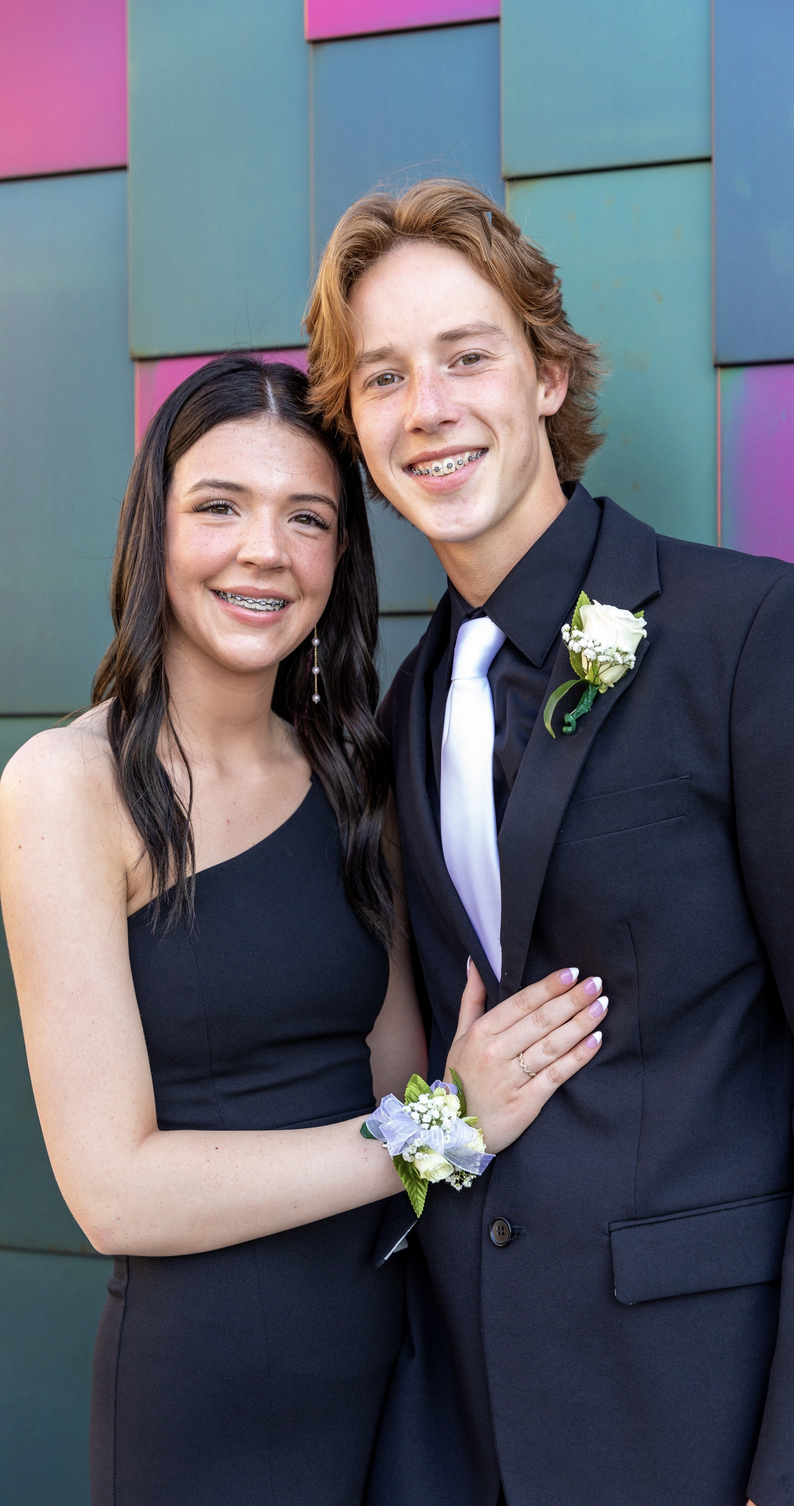
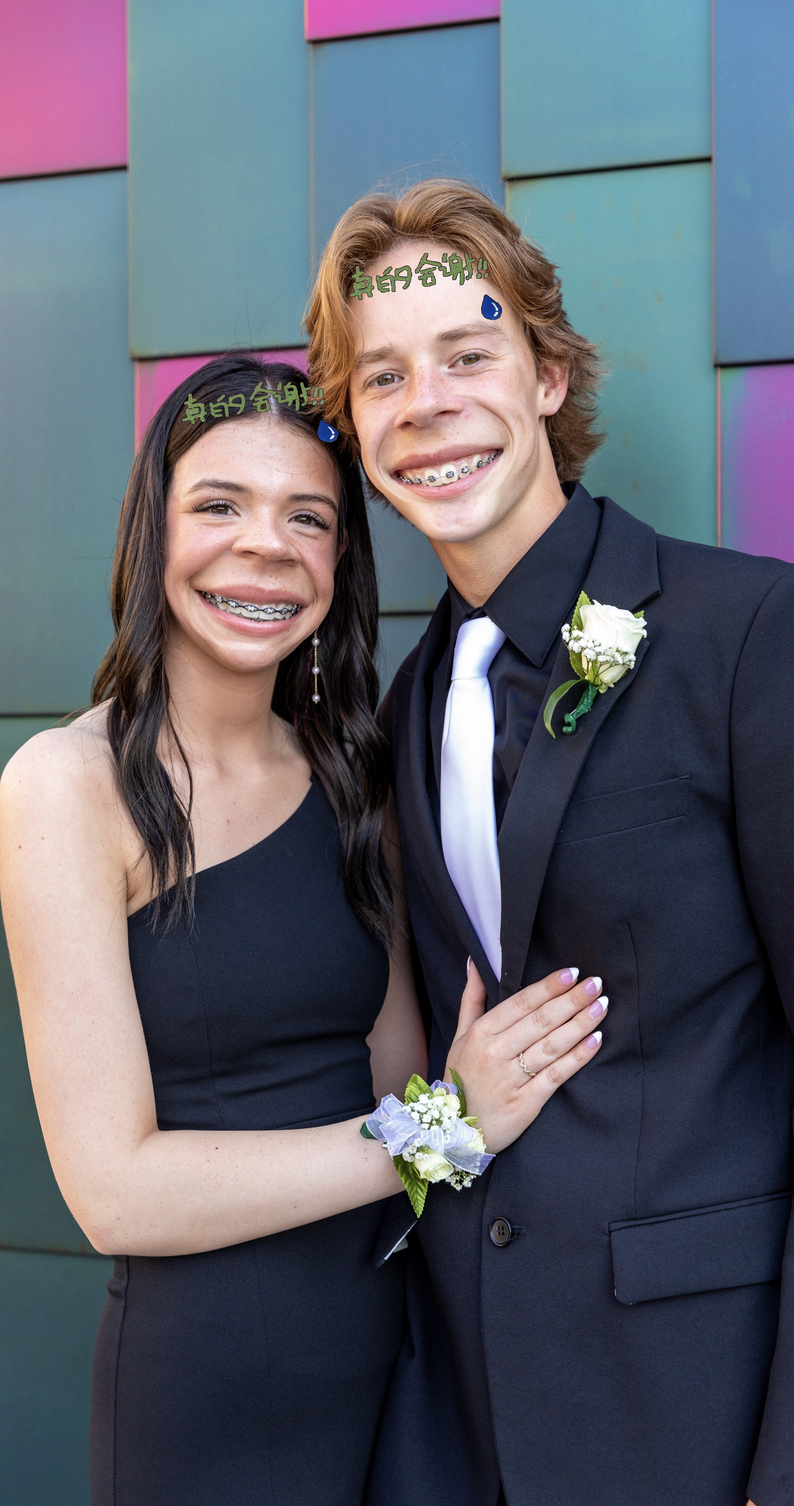
change3 frown sin x**2

diff --git a/1.py b/1.py
@@ -182,9 +182,9 @@ def overlay_image(background, overlay, x, y):
     """
     # 获取前景图像的尺寸
     h, w = overlay.shape[:2]
-    na = [[255,255,255],
-          [255,255,255],
-          [255,255,255]]
+    na = [[0,0,0],
+          [0,0,0],
+          [0,0,0]]
     for i in range(h):
         for j in range(w):
             if np.sum(np.square(overlay[i][j]-na))>1000:
@@ -220,7 +220,7 @@ def change2(img_path,faces):
         lefts.append([(zx1,zy1),(a,b)])
     result = apply_lens_effect(img, ellipses)
     background = result
-    overlay = cv2.imread('zdhx.jpg')
+    overlay = cv2.imread('zdhx2.jpg')
     for i in range(len(lefts)):
         x,y=lefts[i][0]
         a,b=lefts[i][1]
@@ -228,8 +228,38 @@ def change2(img_path,faces):
         background=overlay_image(background,overlay,x,y)
     return result
 
-
-def smooth_bend_transform(image, regions):
+def frown_effect(img, brow_center, width, height, strength):
+    """
+    :param img: 输入图像
+    :param brow_center: 眉毛中心点坐标 (x,y)
+    :param width: 作用区域宽度
+    :param height: 作用区域高度
+    :param strength: 下压强度系数
+    """
+    rows, cols = img.shape[:2]
+    c1,c2=brow_center[0]-width//2,brow_center[0]+width//2
+    c3,c4=brow_center[1]-height//2,brow_center[1]+height//2
+    output = np.zeros_like(img)
+    
+    for i in range(c1,c2):
+        for j in range(c3,c4):
+            # 计算相对于眉毛中心的局部坐标
+            dx = (j - brow_center[0]) / (width/2)
+            dy = (i - brow_center[1]) / (height/2)
+            
+            if abs(dx) <= 1 and abs(dy) <= 1:
+                # 抛物线位移函数：中心下压，边缘上抬
+                delta_y = strength *10* (1 - dx**2) 
+                new_i = int(i + delta_y)
+                new_j = j
+                
+                # 边界处理
+                if 0 <= new_i < rows and 0 <= new_j < cols:
+                    output[i,j] = img[new_i, new_j]
+            else:
+                output[j,i] = img[i,j]
+    return output
+def smooth_bend_transform(img, regions):
     """
     对图像的多个长方形区域进行平滑倾斜弯曲变换
     :param image: 输入图像
@@ -242,51 +272,39 @@ def smooth_bend_transform(image, regions):
         - phase_step: 正弦函数的步长
     :return: 变换后的图像
     """
-    import numpy as np
 
-    def smooth_edge_mask(sh, decay_radius=50):
-    # 生成边缘衰减掩模（0~1）
-        mask = np.ones((height, width))
-        for i in range(0, sh[0][1]-sh[0][0]):
-            for j in range(0, sh[1][1]-sh[1][0]):
-                # 计算到边界的距离
-                d_left = j
-                d_right = width - j
-                d_top = i
-                d_bottom = height - i
-                d_min = min(d_left, d_right, d_top, d_bottom)
-                # 高斯衰减：边缘decay_radius像素内逐渐衰减到0
-                mask[i,j] = np.exp(-(max(0, decay_radius - d_min)**2) / (2*(decay_radius/3)**2))
-        return mask
-
-    result = image
-    height, width = image.shape[:2]
+    result = img.copy()
+    height, width = img.shape[:2]
 
     # 遍历每个长方形区域
     for region in regions:
+        print(region)
         x_start, x_end = region["x_start"], region["x_end"]
         y_start, y_end = region["y_start"], region["y_end"]
         amplitude = region["amplitude"]
         frequency = region["frequency"]
         phase_start = region["phase_start"]
         phase_step = region["phase_step"]
-        mask=smooth_edge_mask([(x_start, x_end),(y_start, y_end)], decay_radius=50)
         # 遍历长方形区域
-        for y in range(y_start, y_end):
-            for x in range(x_start, x_end):
-                # 计算正弦函数的相位
-                phase = phase_start + (x - x_start) * phase_step
-                
-                # 修改扭曲函数，加入衰减
-                offset = amplitude * np.sin(frequency * y + phase) #mask[y-y_start, x-x_start]
-                # 计算新坐标
-                y_new = y + offset
-                if (y_new < y_start ):
-                    y_new=y_start
-                elif (y_new > y_end):
-                    y_new=y_end
-                value= linear_interpolation(image, x, y_new)
-                result[y, x] = value
+        brow_center = (int((x_start + x_end) / 2), int((y_start + y_end) / 2))  
+        strength = amplitude 
+        for j in range(x_start, x_end):
+            phase= phase_start + (j - x_start) * phase_step
+            for i in range(y_start, y_end):
+                # 计算相对于眉毛中心的局部坐标
+                dx= (j - brow_center[0]) / (x_end - x_start)*2
+                dy= (i - brow_center[1]) / (y_end - y_start)*2
+                delta_y = 1.0*strength * (np.sin(phase)+1) * (1 - dx**2)*(1 - dy**2)
+                if (dy>0):
+                    delta_y*=2
+                new_i = .0
+                new_i = i + delta_y
+                new_i = max(y_start, min(new_i, y_end))  # 限制在范围内
+                new_j = j  # 限制在范围内
+                value = linear_interpolation(img, j, new_i)
+                #if np.sum(np.square(img[i][j]-img[new_i]))>1000
+                result[i,j] = value
+                    
 
     return result
 def change3(img_path,faces):
@@ -302,29 +320,27 @@ def change3(img_path,faces):
         x1=s[t1][0];y1=s[t1][1]
         x2=s[t2][0];y2=s[t2][1]
         bend1 = {
-        "y_start": y1-abs(x1-x2)//2, "y_end": y2+abs(x1-x2)//2,  # 水平范围
+        "y_start": y1-abs(x1-x2), "y_end": y2+abs(x1-x2)//8,  # 水平范围
         "x_start": x1, "x_end": x2,  # 垂直范围
-        "amplitude": 10,              # 弯曲幅度
+        "amplitude": abs(x1-x2)//2,              # 弯曲幅度
         "frequency": 1,               # 弯曲频率
-        "phase_start": np.pi,         # 正弦函数的初始相位（第三个四分之一周期）
-        "phase_step": np.pi /4 / (abs(x2-x1))  # 正弦函数的步长
+        "phase_start": np.pi*3.0/2.0,         # 正弦函数的初始相位（第三个四分之一周期）
+        "phase_step": np.pi/2 / (abs(x2-x1))  # 正弦函数的步长
         }
-        print(bend1)
         bends.append(bend1)
 
         #右眉毛
-        x1=s[t3][0];y1=s[t3][1]
-        x2=s[t4][0];y2=s[t4][1]
+        x1=s[t4][0];y1=s[t4][1]
+        x2=s[t3][0];y2=s[t3][1]
         
         bend2 = {
-        "y_start": y1-abs(x1-x2)//2, "y_end": y2+abs(x1-x2)//2,  # 水平范围
-        "x_start": x1, "x_end": x2,  # 垂直范围
-        "amplitude": 10,              # 弯曲幅度
+        "y_start": y1-abs(x1-x2), "y_end": y2+abs(x1-x2)//8,  # 水平范围
+        "x_start": min(x1,x2), "x_end": max(x1,x2),  # 垂直范围
+        "amplitude": abs(x1-x2)//2,              # 弯曲幅度
         "frequency": 1,               # 弯曲频率
-        "phase_start": np.pi*3/2,         # 正弦函数的初始相位（第三个四分之一周期）
-        "phase_step": np.pi /4 / ((y2+abs(x1-x2)//2)-(y1-abs(x1-x2)//2))  # 正弦函数的步长
+        "phase_start": np.pi,         # 正弦函数的初始相位（第三个四分之一周期）
+        "phase_step": np.pi /2/ (abs(x2-x1))  # 正弦函数的步长
         }
-        print(bend2)
         bends.append(bend2)
     result = smooth_bend_transform(img, bends)
     return result
@@ -342,7 +358,8 @@ def main():
         result=change3(path,faces)
     else:
         result=img
-    cv2.imwrite(r'1-4t-sin-dx-3.jpg', result)
+    name = '1-4t-frown-'+f'{choose}'+'.jpg'
+    cv2.imwrite(name, result)
 if __name__ == "__main__":
     main()
 '''
